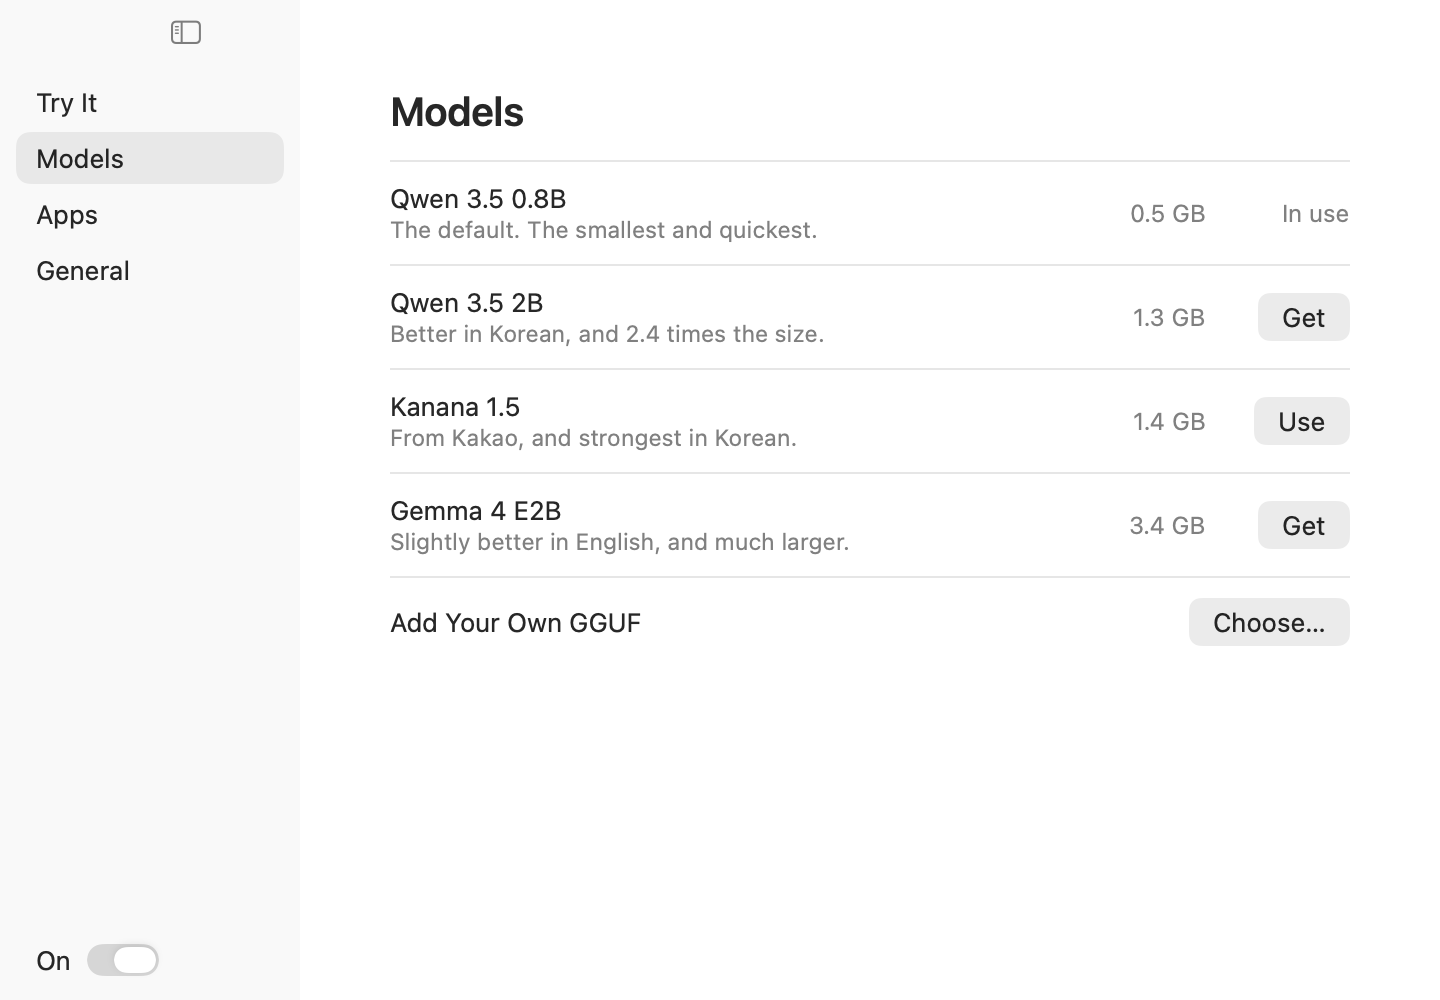
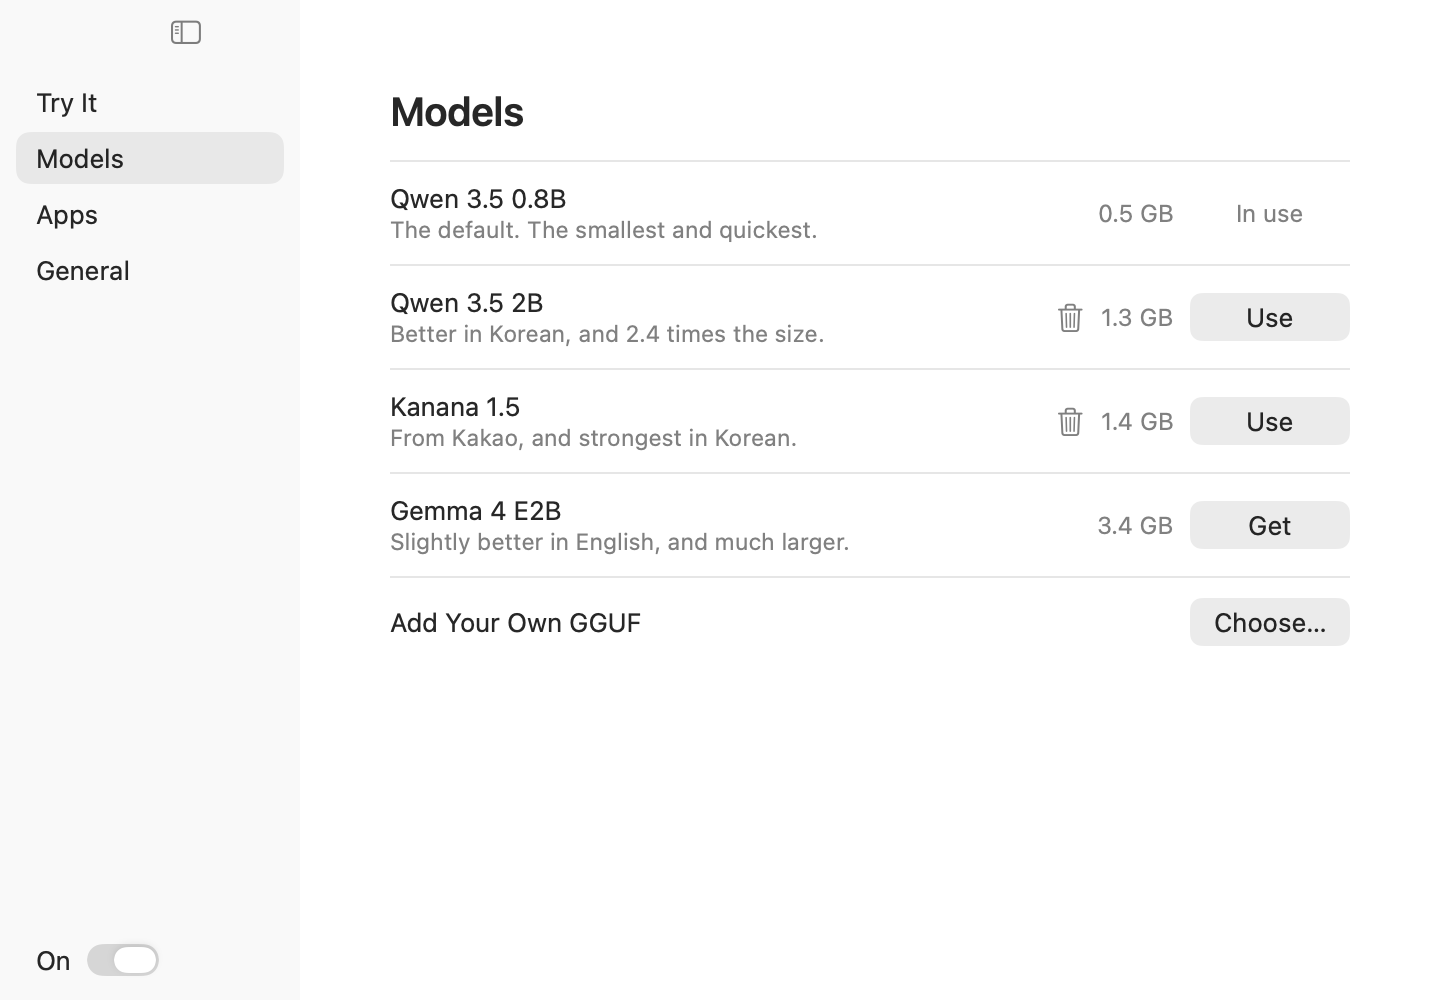
Models: delete a downloaded model, and one width for the last column
A trash button beside each downloaded model that is neither loaded nor loading, with a confirmation. Use, Get, In use and Choose… now share an 80-point column, so In use no longer sits off the buttons' line.

diff --git a/Sources/ItdaApp/Window.swift b/Sources/ItdaApp/Window.swift
@@ -260,42 +260,58 @@ private struct Row<Trailing: View>: View {
 
 private struct ModelsPage: View {
     @ObservedObject var app: App
+    @State private var deleting: ModelStore.Model?
     var body: some View {
         Plain(title: "Models") {
             ForEach(ModelStore.models) { model in
                 Row(title: model.name, note: model.note) {
+                    if app.canDelete(model) {
+                        Button { deleting = model } label: { Image(systemName: "trash") }
+                            .buttonStyle(.borderless).foregroundStyle(.secondary).help("Delete the downloaded file")
+                    }
                     Text(model.sizeText).foregroundStyle(.secondary).font(.system(size: 12))
-                    action(model).frame(minWidth: 64, alignment: .trailing)
+                    action(model).frame(width: Self.column)
                 }
             }
             ForEach(app.ownModels, id: \.self) { path in
                 Row(title: App.fileName(path), note: "Your own, from \(URL(fileURLWithPath: path).deletingLastPathComponent().path)") {
                     if app.isActive(path: path) {
-                        Text("In use").foregroundStyle(.secondary).font(.system(size: 12)).frame(minWidth: 64, alignment: .trailing)
+                        Text("In use").foregroundStyle(.secondary).font(.system(size: 12)).frame(width: Self.column)
                     } else {
                         Button("Forget") { app.forgetOwnModel(path) }.help("Takes it off this list. The file stays.")
-                        Button("Use") { app.use(path: path) }.frame(minWidth: 64, alignment: .trailing)
+                        wide("Use") { app.use(path: path) }
                     }
                 }
             }
             Row(title: "Add Your Own GGUF") {
-                Button("Choose…", action: app.chooseModel).frame(minWidth: 64, alignment: .trailing)
+                wide("Choose…", app.chooseModel)
             }
             if let notice = app.notice { Text(notice).font(.system(size: 12)).foregroundStyle(.secondary).padding(.top, 8) }
         }
+        .confirmationDialog("Delete \(deleting?.name ?? "")?", isPresented: Binding(get: { deleting != nil }, set: { if !$0 { deleting = nil } })) {
+            Button("Delete", role: .destructive) { if let deleting { app.delete(deleting) } }
+        } message: {
+            Text("It frees \(deleting?.sizeText ?? ""). You can get it again here.")
+        }
+    }
+
+    /// One width for every button and state in the last column, so their edges line up.
+    private static let column: CGFloat = 80
+    private func wide(_ title: String, _ action: @escaping () -> Void) -> some View {
+        Button(action: action) { Text(title).frame(maxWidth: .infinity) }.frame(width: Self.column)
     }
 
     @ViewBuilder private func action(_ model: ModelStore.Model) -> some View {
         if app.downloading == model.id, app.verifying {
             Text("Checking…").foregroundStyle(.secondary).font(.system(size: 12))
         } else if app.downloading == model.id {
-            Button("\(Int(app.downloadFraction * 100))%  ✕") { app.store.cancel() }.help("Stop the download")
+            wide("\(Int(app.downloadFraction * 100))%  ✕") { app.store.cancel() }.help("Stop the download")
         } else if app.isActive(model) {
             Text("In use").foregroundStyle(.secondary).font(.system(size: 12))
         } else if app.store.has(model) {
-            Button("Use") { app.use(model) }
+            wide("Use") { app.use(model) }
         } else {
-            Button("Get") { app.use(model) }.disabled(app.downloading != nil)
+            wide("Get") { app.use(model) }.disabled(app.downloading != nil)
         }
     }
 }

diff --git a/Sources/ItdaApp/App.swift b/Sources/ItdaApp/App.swift
@@ -90,6 +90,16 @@ final class App: NSObject, NSApplicationDelegate, NSMenuDelegate, NSWindowDelega
     func use(path: String) { open(path, remember: true) }
 
     func isActive(_ model: ModelStore.Model) -> Bool { ready && activePath == store.path(model).path }
+    /// Downloaded, and neither loaded nor loading, so its file can go.
+    func canDelete(_ model: ModelStore.Model) -> Bool {
+        let path = store.path(model).path
+        return store.has(model) && path != activePath && path != loadingPath
+    }
+    func delete(_ model: ModelStore.Model) {
+        guard canDelete(model) else { return }
+        try? FileManager.default.removeItem(at: store.path(model))
+        objectWillChange.send()
+    }
 
     static func fileName(_ path: String) -> String { URL(fileURLWithPath: path).deletingPathExtension().lastPathComponent }
     private func name(_ path: String) -> String { ModelStore.models.first { store.path($0).path == path }?.name ?? App.fileName(path) }
